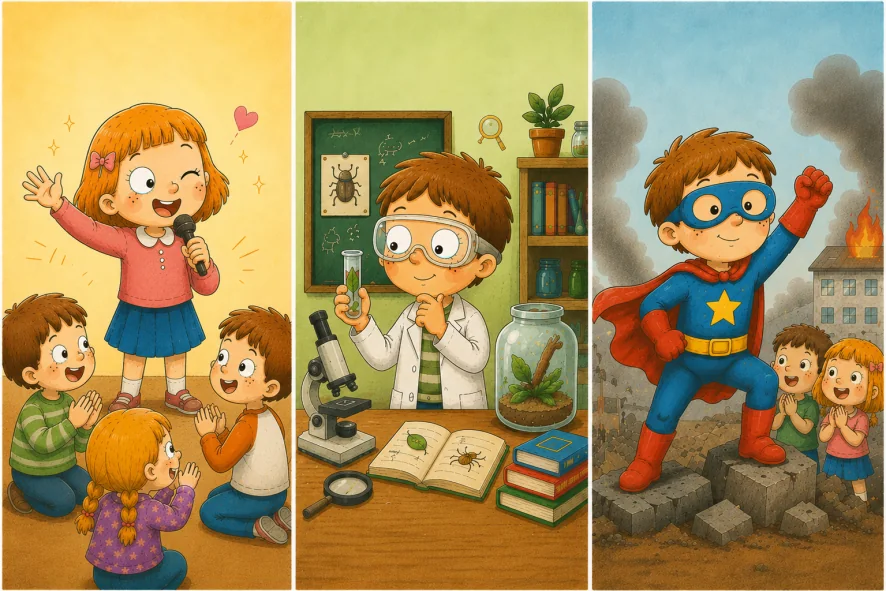
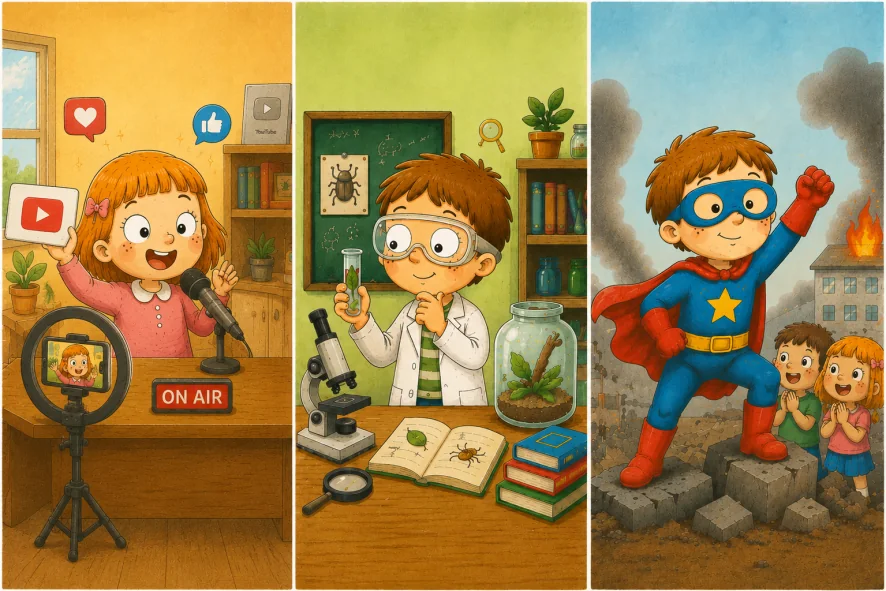
Add files via upload

diff --git a/script.js b/script.js
@@ -10,7 +10,7 @@ const CONFIG = {
   MAX_RETRY_COUNT: 1,
   RETRY_DELAY_MS: 1000,
   REQUEST_TIMEOUT_MS: 10000,
-  COUNT_RETEST_AS_NEW: false
+  COUNT_RETEST_AS_NEW: true
 };
 
 const PARTICIPATION_ID_KEY = `${CONFIG.EVENT_ID}_participationId`;
@@ -21,19 +21,19 @@ let fallbackParticipationId = null;
 // 1. 확정 데이터
 // =========================
 const insects = {
-  rhinocerosBeetle: { name: "장수풍뎅이", personality: "든든한 리더", keywords: ["리더십", "책임감", "든든함"], exhibitZone: "육상곤충존", image: "assets/results/1.png", representativeAnswer: { questionId: 1, optionId: 1 } },
-  stagBeetle: { name: "넓적사슴벌레", personality: "용감한 승부사", keywords: ["용기", "승부욕", "자신감"], exhibitZone: "육상곤충존", image: "assets/results/2.png", representativeAnswer: { questionId: 2, optionId: 1 } },
-  jewelBug: { name: "큰광대노린재", personality: "당당한 인기쟁이", keywords: ["개성", "당당함", "친화력"], exhibitZone: "육상곤충존", image: "assets/results/3.png", representativeAnswer: { questionId: 3, optionId: 1 } },
-  grasshopper: { name: "풀무치", personality: "씩씩한 행동대장", keywords: ["행동력", "씩씩함", "추진력"], exhibitZone: "육상곤충존", image: "assets/results/4.png", representativeAnswer: { questionId: 6, optionId: 1 } },
-  whiteSpottedFlowerChafer: { name: "흰점박이꽃무지", personality: "다정한 조력자", keywords: ["배려", "친절", "도움"], exhibitZone: "육상곤충존", image: "assets/results/5.png", representativeAnswer: { questionId: 3, optionId: 3 } },
-  riceGrasshopper: { name: "벼메뚜기", personality: "활기 넘치는 에너자이저", keywords: ["활력", "긍정", "적극성"], exhibitZone: "육상곤충존", image: "assets/results/6.png", representativeAnswer: { questionId: 4, optionId: 1 } },
-  divingBeetle: { name: "물방개", personality: "호기심 많은 탐험가", keywords: ["호기심", "모험심", "탐구력"], exhibitZone: "수서곤충존", image: "assets/results/7.png", representativeAnswer: { questionId: 7, optionId: 1 } },
-  waterBug: { name: "물자라", personality: "믿음직한 보호자", keywords: ["보호", "책임감", "신뢰"], exhibitZone: "수서곤충존", image: "assets/results/8.png", representativeAnswer: { questionId: 5, optionId: 3 } },
-  dragonflyNymph: { name: "왕잠자리수채", personality: "용의주도한 전략가", keywords: ["계획", "집중력", "판단력"], exhibitZone: "수서곤충존", image: "assets/results/9.png", representativeAnswer: { questionId: 1, optionId: 3 } },
-  waterScorpion: { name: "장구애비", personality: "침착한 사색가", keywords: ["침착함", "관찰력", "깊은 생각"], exhibitZone: "수서곤충존", image: "assets/results/10.png", representativeAnswer: { questionId: 5, optionId: 2 } },
-  bumblebee: { name: "서양뒤영벌", personality: "부지런한 협력가", keywords: ["협동", "성실함", "부지런함"], exhibitZone: "꿀벌존", image: "assets/results/11.png", representativeAnswer: { questionId: 6, optionId: 2 } },
-  cabbageButterfly: { name: "배추흰나비", personality: "낭만적인 여행가", keywords: ["자유", "낭만", "새로운 경험"], exhibitZone: "파브르정원", image: "assets/results/12.png", representativeAnswer: { questionId: 7, optionId: 3 } },
-  southernEmperorButterfly: { name: "남방오색나비", personality: "자유로운 예술가", keywords: ["창의력", "감수성", "개성"], exhibitZone: "파브르정원", image: "assets/results/13.png", representativeAnswer: { questionId: 8, optionId: 2 } }
+  rhinocerosBeetle: { name: "장수풍뎅이", personality: "든든한 리더", keywords: ["리더십", "책임감", "든든함"], exhibitZone: "육상곤충존", image: "assets/results/1.webp", representativeAnswer: { questionId: 1, optionId: 1 } },
+  stagBeetle: { name: "넓적사슴벌레", personality: "용감한 승부사", keywords: ["용기", "승부욕", "자신감"], exhibitZone: "육상곤충존", image: "assets/results/2.webp", representativeAnswer: { questionId: 2, optionId: 1 } },
+  jewelBug: { name: "큰광대노린재", personality: "당당한 인기쟁이", keywords: ["개성", "당당함", "친화력"], exhibitZone: "육상곤충존", image: "assets/results/3.webp", representativeAnswer: { questionId: 3, optionId: 1 } },
+  grasshopper: { name: "풀무치", personality: "씩씩한 행동대장", keywords: ["행동력", "씩씩함", "추진력"], exhibitZone: "육상곤충존", image: "assets/results/4.webp", representativeAnswer: { questionId: 6, optionId: 1 } },
+  whiteSpottedFlowerChafer: { name: "흰점박이꽃무지", personality: "다정한 조력자", keywords: ["배려", "친절", "도움"], exhibitZone: "육상곤충존", image: "assets/results/5.webp", representativeAnswer: { questionId: 3, optionId: 3 } },
+  riceGrasshopper: { name: "벼메뚜기", personality: "활기 넘치는 에너자이저", keywords: ["활력", "긍정", "적극성"], exhibitZone: "육상곤충존", image: "assets/results/6.webp", representativeAnswer: { questionId: 4, optionId: 1 } },
+  divingBeetle: { name: "물방개", personality: "호기심 많은 탐험가", keywords: ["호기심", "모험심", "탐구력"], exhibitZone: "수서곤충존", image: "assets/results/7.webp", representativeAnswer: { questionId: 7, optionId: 1 } },
+  waterBug: { name: "물자라", personality: "믿음직한 보호자", keywords: ["보호", "책임감", "신뢰"], exhibitZone: "수서곤충존", image: "assets/results/8.webp", representativeAnswer: { questionId: 5, optionId: 3 } },
+  dragonflyNymph: { name: "왕잠자리수채", personality: "용의주도한 전략가", keywords: ["계획", "집중력", "판단력"], exhibitZone: "수서곤충존", image: "assets/results/9.webp", representativeAnswer: { questionId: 1, optionId: 3 } },
+  waterScorpion: { name: "장구애비", personality: "침착한 사색가", keywords: ["침착함", "관찰력", "깊은 생각"], exhibitZone: "수서곤충존", image: "assets/results/10.webp", representativeAnswer: { questionId: 5, optionId: 2 } },
+  bumblebee: { name: "서양뒤영벌", personality: "부지런한 협력가", keywords: ["협동", "성실함", "부지런함"], exhibitZone: "꿀벌존", image: "assets/results/11.webp", representativeAnswer: { questionId: 6, optionId: 2 } },
+  cabbageButterfly: { name: "배추흰나비", personality: "낭만적인 여행가", keywords: ["자유", "낭만", "새로운 경험"], exhibitZone: "파브르정원", image: "assets/results/12.webp", representativeAnswer: { questionId: 7, optionId: 3 } },
+  southernEmperorButterfly: { name: "남방오색나비", personality: "자유로운 예술가", keywords: ["창의력", "감수성", "개성"], exhibitZone: "파브르정원", image: "assets/results/13.webp", representativeAnswer: { questionId: 8, optionId: 2 } }
 };
 
 const questions = [
@@ -57,7 +57,7 @@ const questions = [
     { id: 2, text: "가보지 않은 장소나 새로운 체험을 찾아 나선다.", scores: { divingBeetle: 2, cabbageButterfly: 1 } },
     { id: 3, text: "그림을 그리거나 만들기를 하며 나만의 작품을 만든다.", scores: { southernEmperorButterfly: 2 } }
   ]},
-  { id: 5, image: "assets/questions/q5.webp", imageAlt: "저녁 공원에서 처음 보는 외계인을 만난 모습", question: "집 근처 공원에서 처음 보는 외계인을 만났다! 어떻게 할까?", options: [
+  { id: 5, image: "assets/questions/q5.webp", imageAlt: "집 근처 공원에서 외계인을 만난 모습", question: "집 근처 공원에서 외계인을 만났다! 어떻게 할까?", options: [
     { id: 1, text: "가까이 다가가 말을 걸어본다.", scores: { divingBeetle: 2, cabbageButterfly: 1 } },
     { id: 2, text: "위험할 수 있으니 거리를 두고 행동을 관찰한다.", scores: { waterScorpion: 2, dragonflyNymph: 1 } },
     { id: 3, text: "곧바로 어른이나 경찰에게 알려 모두가 안전하도록 한다.", scores: { waterBug: 2, rhinocerosBeetle: 1 } }
@@ -77,8 +77,8 @@ const questions = [
     { id: 2, text: "세상에서 가장 아름다운 꽃으로 키운다.", scores: { southernEmperorButterfly: 2, jewelBug: 1 } },
     { id: 3, text: "친구들이 모두 모여 함께 놀 수 있는 커다란 나무 놀이터로 키운다.", scores: { grasshopper: 2, bumblebee: 1 } }
   ]},
-  { id: 9, image: "assets/questions/q9.webp", imageAlt: "인기 스타, 천재 과학자, 슈퍼히어로를 상상하는 모습", question: "다음 중 한 사람이 될 수 있다면?", options: [
-    { id: 1, text: "모두의 사랑을 받는 인기 스타", scores: { jewelBug: 2 } },
+  { id: 9, image: "assets/questions/q9.webp", imageAlt: "방송 크리에이터, 천재 과학자, 슈퍼히어로를 상상하는 모습", question: "다음 중 한 사람이 될 수 있다면?", options: [
+    { id: 1, text: "인기있는 방송 크리에이터", scores: { jewelBug: 2 } },
     { id: 2, text: "세상의 비밀을 밝혀내는 천재 과학자", scores: { waterScorpion: 2, dragonflyNymph: 1 } },
     { id: 3, text: "위험한 순간에 나타나 사람들을 구하는 슈퍼히어로", scores: { waterBug: 2, rhinocerosBeetle: 1 } }
   ]}
@@ -212,6 +212,7 @@ const elements = {
   nextButton: document.getElementById("next-button"),
   restartButton: document.getElementById("restart-button"),
   shareButton: document.getElementById("share-button"),
+  downloadButton: document.getElementById("download-button"),
   progressCurrent: document.getElementById("progress-current"),
   progressTotal: document.getElementById("progress-total"),
   progressFill: document.getElementById("progress-fill"),
@@ -261,7 +262,13 @@ function resetTest() {
 
 function startTest() {
   resetTest();
-  getOrCreateParticipationId();
+  // v4: 완료 1회 = 참여 1건. 이전 완료 기록이 있으면 새 참여 ID를 발급합니다.
+  const existingStatus = getSubmissionStatus();
+  if (existingStatus?.submitted) {
+    resetForNewParticipant();
+  } else {
+    getOrCreateParticipationId();
+  }
   renderQuestion();
   showScreen("question");
 }
@@ -616,7 +623,33 @@ async function shareResult() {
       elements.toast.textContent = "결과 문구와 주소를 복사했습니다.";
     }
   } catch (error) {
-    if (error?.name !== "AbortError") elements.toast.textContent = "공유하지 못했습니다. 화면을 캡처해 저장해주세요.";
+    if (error?.name !== "AbortError") elements.toast.textContent = "공유하지 못했습니다. 결과 이미지 저장하기를 이용해주세요.";
+  }
+}
+
+async function downloadResultImage() {
+  if (!lastResult) return;
+  const insect = insects[lastResult.resultId];
+  const filename = `INSECT-MBTI_${insect.name}.webp`;
+
+  try {
+    const response = await fetch(insect.image, { cache: "no-store" });
+    if (!response.ok) throw new Error(`이미지 요청 실패: ${response.status}`);
+    const blob = await response.blob();
+    const objectUrl = URL.createObjectURL(blob);
+    const link = document.createElement("a");
+    link.href = objectUrl;
+    link.download = filename;
+    document.body.appendChild(link);
+    link.click();
+    link.remove();
+    setTimeout(() => URL.revokeObjectURL(objectUrl), 1000);
+    elements.toast.textContent = "결과 이미지 저장을 시작했습니다.";
+  } catch (error) {
+    console.error("결과 이미지 저장 실패", error);
+    // 일부 모바일 브라우저에서는 download 동작이 제한될 수 있어 원본 이미지를 새 탭으로 엽니다.
+    window.open(insect.image, "_blank", "noopener,noreferrer");
+    elements.toast.textContent = "이미지를 새 화면에서 열었습니다. 길게 눌러 저장해주세요.";
   }
 }
 
@@ -638,6 +671,7 @@ elements.prevButton.addEventListener("click", goPrevious);
 elements.nextButton.addEventListener("click", goNext);
 elements.restartButton.addEventListener("click", startTest);
 elements.shareButton.addEventListener("click", shareResult);
+elements.downloadButton.addEventListener("click", downloadResultImage);
 
 // 새로고침 또는 재접속 시 항상 시작 화면으로 초기화합니다.
 resetTest();

diff --git a/style.css b/style.css
@@ -187,7 +187,6 @@ h1 { position: relative; margin: 0; font-family: Georgia, "Times New Roman", ser
 .keyword-panel h3 { margin: 0 0 13px; font-size: 16px; }
 .keyword-list { display: flex; flex-wrap: wrap; justify-content: center; gap: 8px; }
 .keyword-chip { padding: 9px 14px; color: var(--green-dark); background: var(--green-soft); border: 1px solid #b8ceb0; border-radius: 999px; font-size: 15px; font-weight: 850; }
-.capture-tip { margin: 14px 0; color: var(--muted); font-size: 13px; }
 .result-actions { display: grid; gap: 10px; }
 .toast { min-height: 22px; margin: 12px 0 0; color: var(--green-dark); font-size: 14px; font-weight: 750; }
 .debug-panel { margin-top: 18px; text-align: left; background: #20231f; color: #eaf2e6; border-radius: 14px; }

diff --git a/index.html b/index.html
@@ -102,10 +102,9 @@
           <p id="participant-count-text"></p>
         </section>
 
-        <p class="capture-tip">결과 카드를 화면 캡처로 간직해보세요.</p>
-
         <div class="result-actions">
-          <button class="button button--primary button--wide" id="share-button" type="button">결과 공유하기</button>
+          <button class="button button--primary button--wide" id="download-button" type="button">결과 이미지 저장하기</button>
+          <button class="button button--secondary button--wide" id="share-button" type="button">결과 공유하기</button>
           <button class="button button--secondary button--wide" id="restart-button" type="button">다시 테스트하기</button>
         </div>
 
